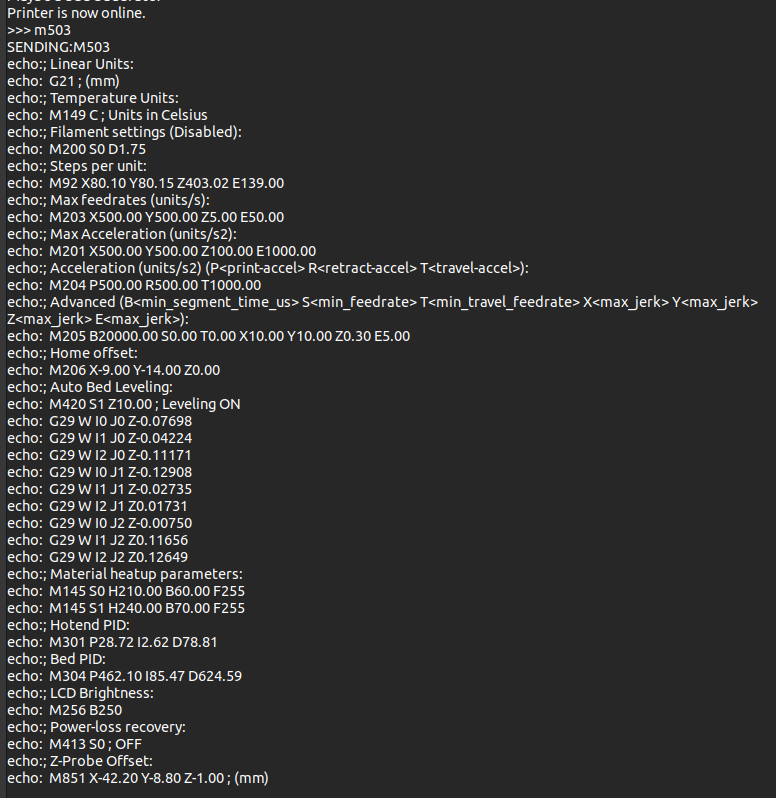
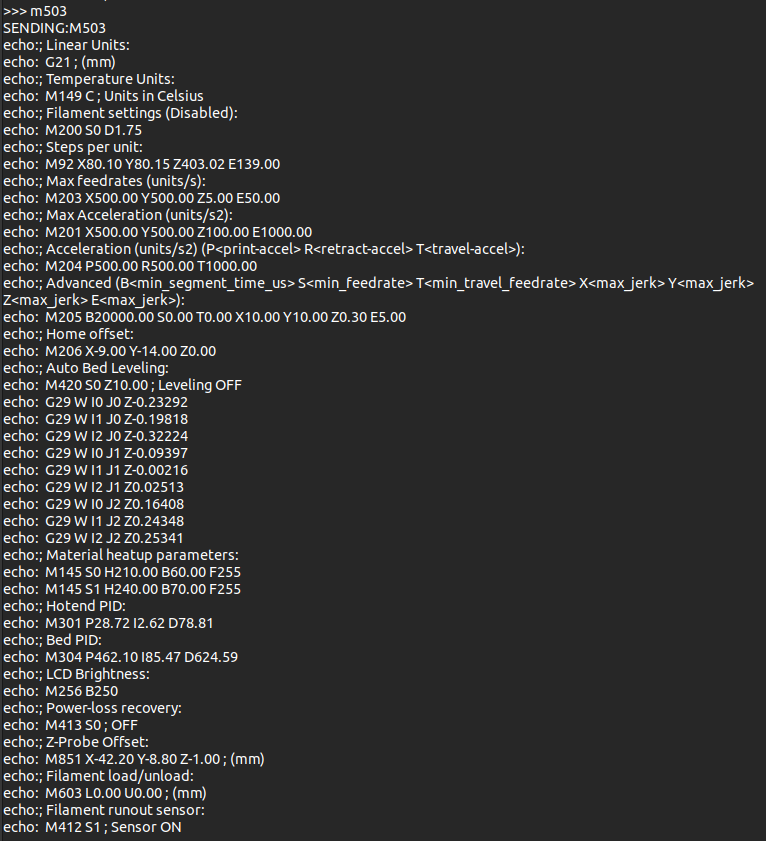
added filament runout detector and updated m503 output screenshot

Changed region(s): [[0.0, 0.0, 0.9909, 0.9925]]

diff --git a/Marlin-2.0.9.6/Marlin/Configuration.h b/Marlin-2.0.9.6/Marlin/Configuration.h
@@ -1641,7 +1641,7 @@
  * RAMPS-based boards use SERVO3_PIN for the first runout sensor.
  * For other boards you may need to define FIL_RUNOUT_PIN, FIL_RUNOUT2_PIN, etc.
  */
-//#define FILAMENT_RUNOUT_SENSOR
+#define FILAMENT_RUNOUT_SENSOR
 #if ENABLED(FILAMENT_RUNOUT_SENSOR)
   #define FIL_RUNOUT_ENABLED_DEFAULT true // Enable the sensor on startup. Override with M412 followed by M500.
   #define NUM_RUNOUT_SENSORS   1          // Number of sensors, up to one per extruder. Define a FIL_RUNOUT#_PIN for each.

diff --git a/Marlin-2.0.9.6/Marlin/Configuration_adv.h b/Marlin-2.0.9.6/Marlin/Configuration_adv.h
@@ -2513,7 +2513,7 @@
  *
  * Enable PARK_HEAD_ON_PAUSE to add the G-code M125 Pause and Park.
  */
-//#define ADVANCED_PAUSE_FEATURE
+#define ADVANCED_PAUSE_FEATURE
 #if ENABLED(ADVANCED_PAUSE_FEATURE)
   #define PAUSE_PARK_RETRACT_FEEDRATE         60  // (mm/s) Initial retract feedrate.
   #define PAUSE_PARK_RETRACT_LENGTH            2  // (mm) Initial retract.
